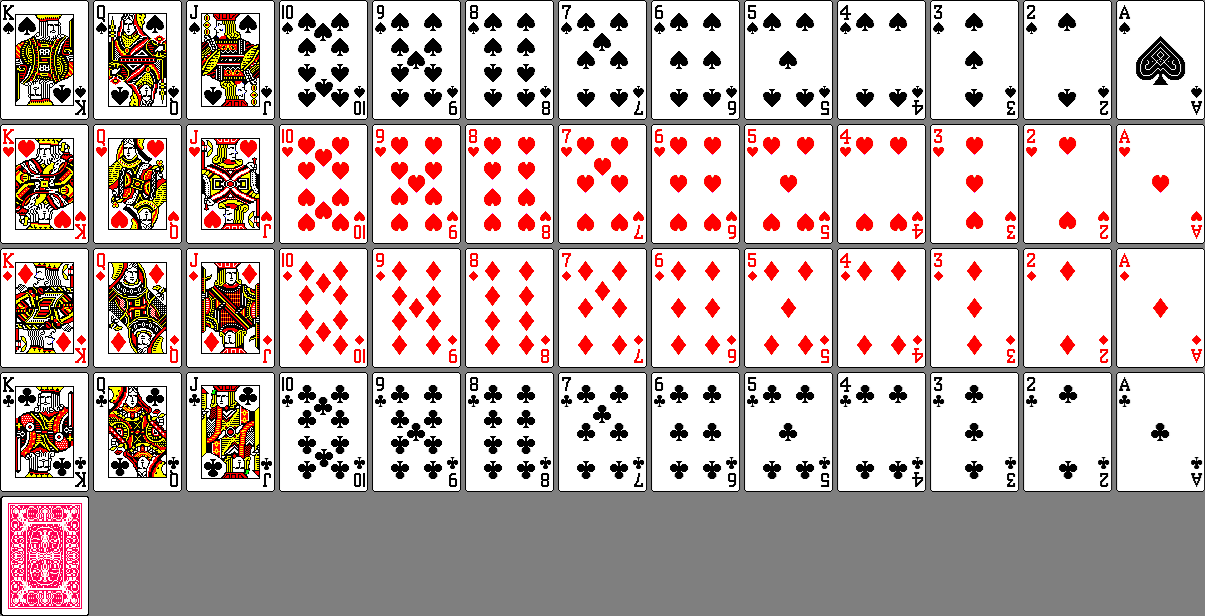
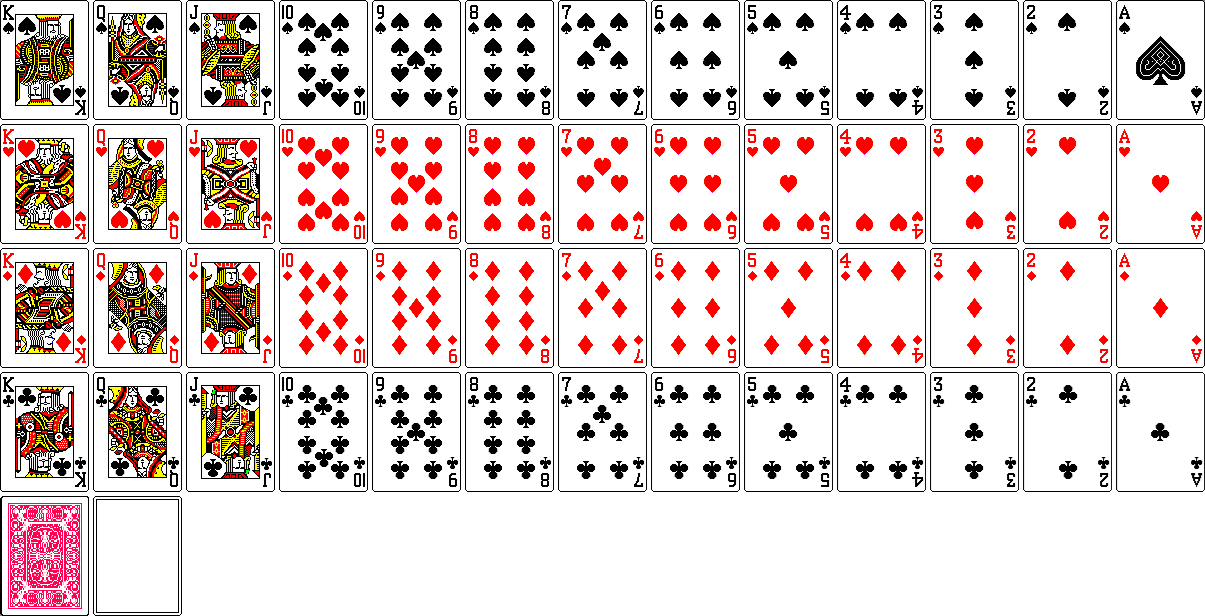
fix resizing correctly

Changed region(s): [[0.0, 0.0, 1.0, 1.0]]

diff --git a/include/renderer.h b/include/renderer.h
@@ -1,6 +1,7 @@
 #pragma once
 
 #include "callbacks.h"
+#include "constants.h"
 #include "debug.h"
 #include "game.h"
 #include "vector.h"
@@ -24,7 +25,7 @@ typedef struct {
 } DeckSprite;
 
 DeckSprite generate_deck_sprites(void) {
-  const float SCALE = 1.3f;
+  const float SCALE = 1.0f;
 
   DeckSprite deck_sprite = {0};
   const int ROW = 4;
@@ -54,8 +55,11 @@ DeckSprite generate_deck_sprites(void) {
       deck_sprite.card[index].uv_top -
       (float)SINGLE_CARD_HEIGHT / (float)TOTAL_HEIGHT;
 
-  deck_sprite.card[index].uv_left = 0;
+  deck_sprite.card[index].uv_left =
+      (SINGLE_CARD_WIDTH + CARDSHEET_OFFSET_X) / (float)TOTAL_WIDTH;
+
   deck_sprite.card[index].uv_right =
+      deck_sprite.card[index].uv_left +
       (float)SINGLE_CARD_WIDTH / (float)TOTAL_WIDTH;
 
   for (int i = 0; i < COL; i++) {
@@ -91,25 +95,17 @@ typedef struct {
   DeckSprite deck_sprites;
 } Renderer;
 
-const char vertexShaderSource[] = {
-#embed "shaders/main_vs.glsl"
-    , '\0'};
-
-const char fragmentShaderSource[] = {
-#embed "shaders/main_fs.glsl"
-    , '\0'};
-
 Renderer renderer_init(GLFWwindow *window, World *world) {
   glEnable(GL_DEBUG_OUTPUT);
   glDebugMessageCallback(openglDebugCallback, NULL);
 
   uint32_t vertexShader = glCreateShader(GL_VERTEX_SHADER);
-  const char *vertexShaderSourcePtr = {vertexShaderSource};
+  const char *vertexShaderSourcePtr = {MAIN_VERTEX_SHADER_SOURCE};
   glShaderSource(vertexShader, 1, &vertexShaderSourcePtr, NULL);
   glCompileShader(vertexShader);
 
   uint32_t fragmentShader = glCreateShader(GL_FRAGMENT_SHADER);
-  const char *fragmentShaderSourcePtr = {fragmentShaderSource};
+  const char *fragmentShaderSourcePtr = {MAIN_FRAGMENT_SHADER_SOURCE};
   glShaderSource(fragmentShader, 1, &fragmentShaderSourcePtr, NULL);
   glCompileShader(fragmentShader);
 
@@ -184,7 +180,7 @@ void renderer_free(Renderer *renderer) {
 
 void renderer_clear(Renderer renderer) {
   (void)renderer;
-  glClearColor(0.2f, 0.2f, 0.2f, 1.0f);
+  glClearColor(0.2f, 0.4f, 0.2f, 1.0f);
   glClear(GL_COLOR_BUFFER_BIT);
 }
 
@@ -196,18 +192,6 @@ typedef struct {
 } Vertex;
 #pragma pack(pop)
 
-void mat4_ortho(float left, float right, float bottom, float top, float near,
-                float far, float *out) {
-  memset(out, 0, sizeof(float) * 16);
-  out[0] = 2.0f / (right - left);
-  out[5] = 2.0f / (top - bottom);
-  out[10] = -2.0f / (far - near);
-  out[12] = -(right + left) / (right - left);
-  out[13] = -(top + bottom) / (top - bottom);
-  out[14] = -(far + near) / (far - near);
-  out[15] = 1.0f;
-}
-
 void renderer_render_sprite(Sprite sprite, Vector *vertices_vec,
                             Vector *indices_vec) {
   Vertex vertices[4] = {0};
@@ -215,8 +199,8 @@ void renderer_render_sprite(Sprite sprite, Vector *vertices_vec,
   float x = sprite.x;
   float y = sprite.y;
 
-  float halfW = (float)sprite.width / 2.f;
-  float halfH = (float)sprite.height / 2.f;
+  float halfW = sprite.width / 2.f;
+  float halfH = sprite.height / 2.f;
 
   vertices[0].x = x + halfW;
   vertices[0].y = y - halfH;
@@ -272,9 +256,6 @@ void renderer_draw_cards(Renderer renderer, Game *game) {
   Vector vertices = vec_init(sizeof(Vertex));
   Vector indices = vec_init(sizeof(uint32_t));
 
-  int window_width, window_height;
-  glfwGetWindowSize(renderer.window, &window_width, &window_height);
-
   // render free cells
   for (int i = 0; i < 4; i++) {
     const int MARGIN_Y = 30;
@@ -282,7 +263,9 @@ void renderer_draw_cards(Renderer renderer, Game *game) {
     const int GAP = 15;
     Card card = game->freecell.reserve[i];
     Sprite sprite = renderer.deck_sprites.card[card];
-
+    if (card == NONE) {
+      sprite.a = 0.5f;
+    }
     sprite.x = (sprite.width + GAP) * i + sprite.width / 2.f + MARGIN_X;
     sprite.y = sprite.height / 2.f + MARGIN_Y;
 
@@ -301,7 +284,7 @@ void renderer_draw_cards(Renderer renderer, Game *game) {
       sprite.a = 0.5f;
     }
     sprite.x = (sprite.width + GAP) * i + sprite.width / 2.f + MARGIN_X;
-    sprite.x = window_width - sprite.x;
+    sprite.x = VIRTUAL_WIDTH - sprite.x;
     sprite.y = sprite.height / 2.f + MARGIN_Y;
 
     renderer_render_sprite(sprite, &vertices, &indices);
@@ -313,18 +296,19 @@ void renderer_draw_cards(Renderer renderer, Game *game) {
   const int GAP = 15;
   const float total_width =
       cascade_count * sample.width + (cascade_count - 1) * GAP;
-  float start_x = (window_width - total_width) / 2.0f;
+  float start_x = (VIRTUAL_WIDTH - total_width) / 2.0f;
 
   for (int i = 0; i < cascade_count; i++) {
     const int MARGIN_Y = SINGLE_CARD_HEIGHT * 2;
     const int MARGIN_X = 0;
-    const int OVERLAP = 25;
+    const int OVERLAP = 20;
 
     Cascade *cascade = &game->freecell.cascade[i];
     for (int j = 0; j < cascade->size; j++) {
       Card card = cascade->cards[j];
 
       Sprite sprite = renderer.deck_sprites.card[card];
+
       sprite.x =
           start_x + i * (sprite.width + GAP) + sprite.width / 2.f + MARGIN_X;
       sprite.y = sprite.height / 2.f + MARGIN_Y + OVERLAP * j;

diff --git a/src/main.c b/src/main.c
@@ -3,6 +3,7 @@
 #include <time.h>
 
 #include "callbacks.h"
+#include "constants.h"
 #include "renderer.h"
 #include "window.h"
 #include "world.h"
@@ -25,11 +26,6 @@ void gameloop(GLFWwindow *window) {
   double start_time = glfwGetTime();
 
   while (running) {
-    int window_width, window_height;
-    glfwGetWindowSize(window, &window_width, &window_height);
-    mat4_ortho(0.0f, (float)window_width, (float)window_height, 0.0f, -1.0f,
-               1.0f, world.projection);
-
     glfwSwapBuffers(window);
     glfwPollEvents();
 
@@ -48,20 +44,24 @@ void gameloop(GLFWwindow *window) {
 
 int main(void) {
   srand((uint32_t)time(NULL));
+
   Game game = game_init();
   game_free(&game);
 
-  GLFWwindow *window = window_init((WindowConfig){.width = 1280,
-                                                  .height = 800,
-                                                  .min_width = 1100,
-                                                  .min_height = 600,
-                                                  .max_width = GLFW_DONT_CARE,
-                                                  .max_height = GLFW_DONT_CARE,
-                                                  .title = "Freecell",
-                                                  .vsync = true,
-                                                  .on_close = on_close,
-                                                  .on_window_resize = on_resize,
-                                                  .on_mouse_click = NULL});
+  GLFWwindow *window = window_init((WindowConfig){
+      .width = VIRTUAL_WIDTH,
+      .height = VIRTUAL_HEIGHT,
+      .min_width = GAME_MIN_WIDTH,
+      .min_height = GAME_MIN_HEIGHT,
+      .max_width = GLFW_DONT_CARE,
+      .max_height = GLFW_DONT_CARE,
+      .title = GAME_TITLE,
+      .vsync = true,
+      .on_close = on_close,
+      .on_window_resize = on_resize,
+      .on_mouse_click = NULL,
+  });
+
   gameloop(window);
 
   window_free(window);

diff --git a/include/callbacks.h b/include/callbacks.h
@@ -1,7 +1,11 @@
 #pragma once
+#include <math.h>
+#include <stdbool.h>
+
 #include <glad/glad.h>
 #include <GLFW/glfw3.h>
-#include <stdbool.h>
+
+#include "constants.h"
 
 struct GLFWwindow;
 
@@ -12,7 +16,24 @@ inline static void on_close(GLFWwindow *window) {
   running = false;
 }
 
-inline static void on_resize(GLFWwindow* window, int width, int height) {
-    (void) window;
-    glViewport(0, 0, width, height);
+inline static void on_resize(GLFWwindow *window, int width, int height) {
+  (void)window;
+  float aspectVirtual = (float)VIRTUAL_WIDTH / VIRTUAL_HEIGHT;
+  float aspectWindow = (float)width / height;
+
+  int viewportWidth, viewportHeight;
+  int viewportX, viewportY;
+
+  if (aspectWindow > aspectVirtual) {
+    viewportHeight = height;
+    viewportWidth = (int)(viewportHeight * aspectVirtual);
+  } else {
+    viewportWidth = width;
+    viewportHeight = (int)(viewportWidth / aspectVirtual);
+  }
+
+  viewportX = (width - viewportWidth) / 2;
+  viewportY = (height - viewportHeight) / 2;
+
+  glViewport(viewportX, viewportY, viewportWidth, viewportHeight);
 }

diff --git a/include/world.h b/include/world.h
@@ -1,8 +1,10 @@
 #pragma once
+#include <stdint.h>
 
+#include "constants.h"
 #include "game.h"
 #include "image.h"
-#include <stdint.h>
+#include "utils.h"
 
 typedef struct {
   Game game;
@@ -18,7 +20,9 @@ World world_init(void) {
   World world;
   world.game = game_init();
   world.spritesheet = image_load_from_memory((const uint8_t *)card_spritesheet,
-                         sizeof(card_spritesheet), 4);
+                                             sizeof(card_spritesheet), 4);
+  mat4_ortho(0.0f, (float)VIRTUAL_WIDTH, (float)VIRTUAL_HEIGHT, 0.0f, -1.0f,
+             1.0f, world.projection);
   return world;
 }
 

diff --git a/include/utils.h b/include/utils.h
@@ -1,0 +1,14 @@
+#pragma once
+#include <string.h>
+
+inline void mat4_ortho(float left, float right, float bottom, float top,
+                       float near, float far, float *out) {
+  memset(out, 0, sizeof(float) * 16);
+  out[0] = 2.0f / (right - left);
+  out[5] = 2.0f / (top - bottom);
+  out[10] = -2.0f / (far - near);
+  out[12] = -(right + left) / (right - left);
+  out[13] = -(top + bottom) / (top - bottom);
+  out[14] = -(far + near) / (far - near);
+  out[15] = 1.0f;
+}

diff --git a/include/constants.h b/include/constants.h
@@ -1,0 +1,17 @@
+#pragma once
+
+const char GAME_TITLE[] = "Freecell";
+const int GAME_MIN_WIDTH = 800;
+const int GAME_MIN_HEIGHT = 600;
+
+const int VIRTUAL_WIDTH = 1100;
+const int VIRTUAL_HEIGHT = 800;
+
+const char MAIN_VERTEX_SHADER_SOURCE[] = {
+#embed "shaders/main_vs.glsl"
+    , '\0'};
+
+const char MAIN_FRAGMENT_SHADER_SOURCE[] = {
+#embed "shaders/main_fs.glsl"
+    , '\0'};
+
